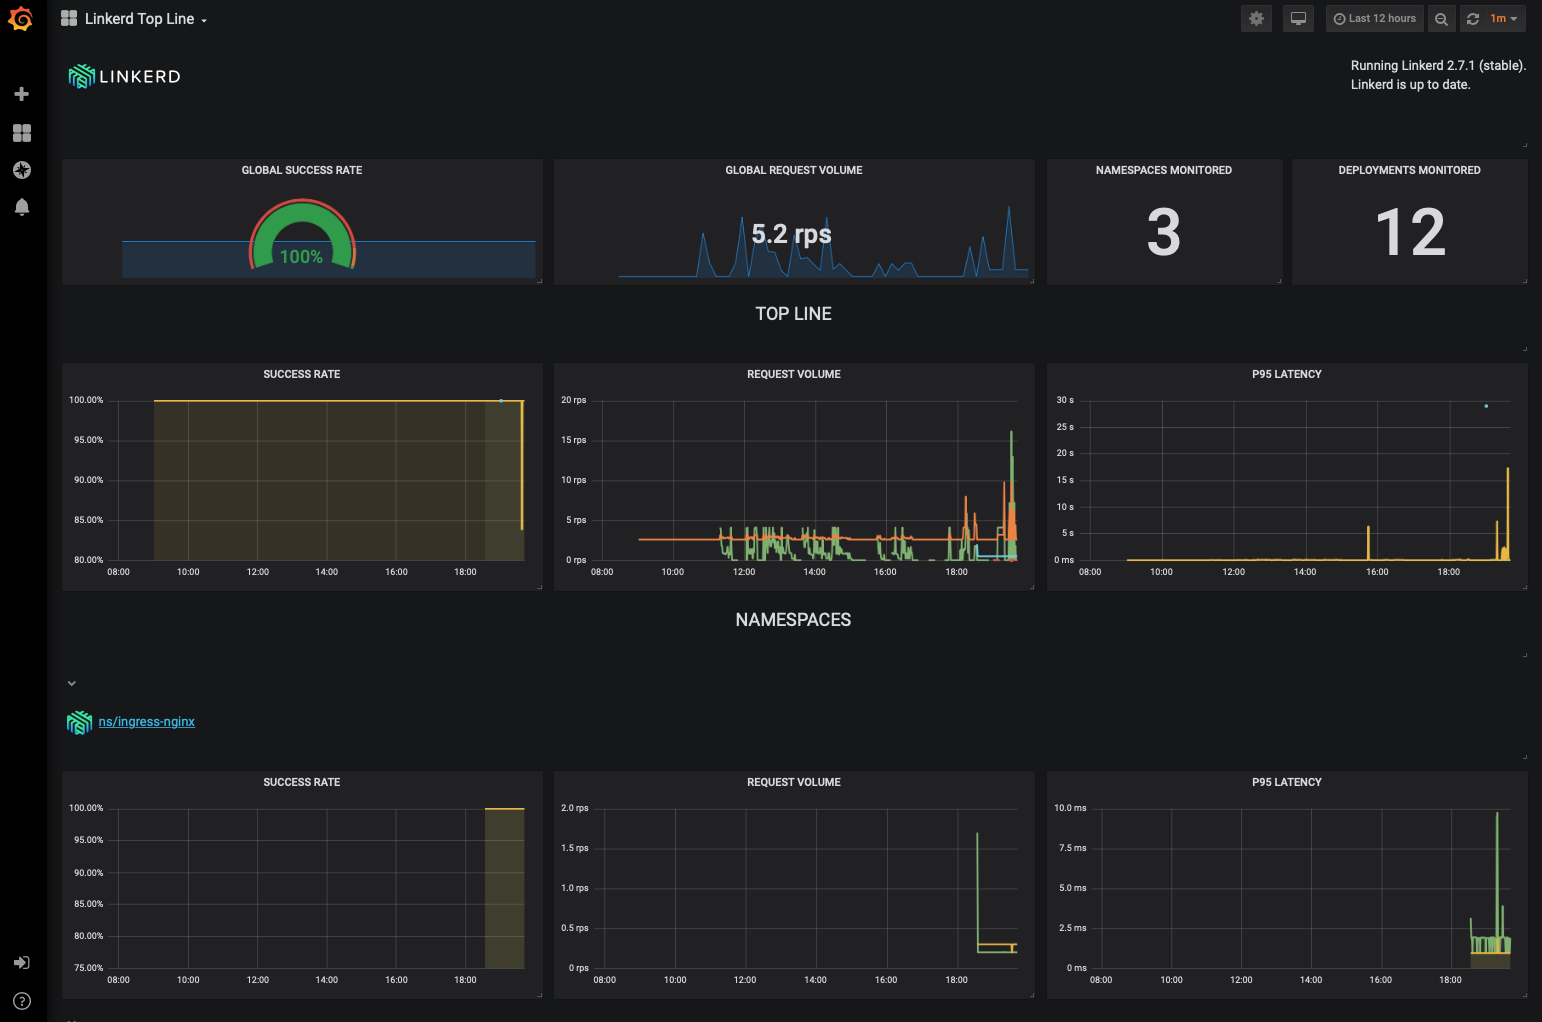
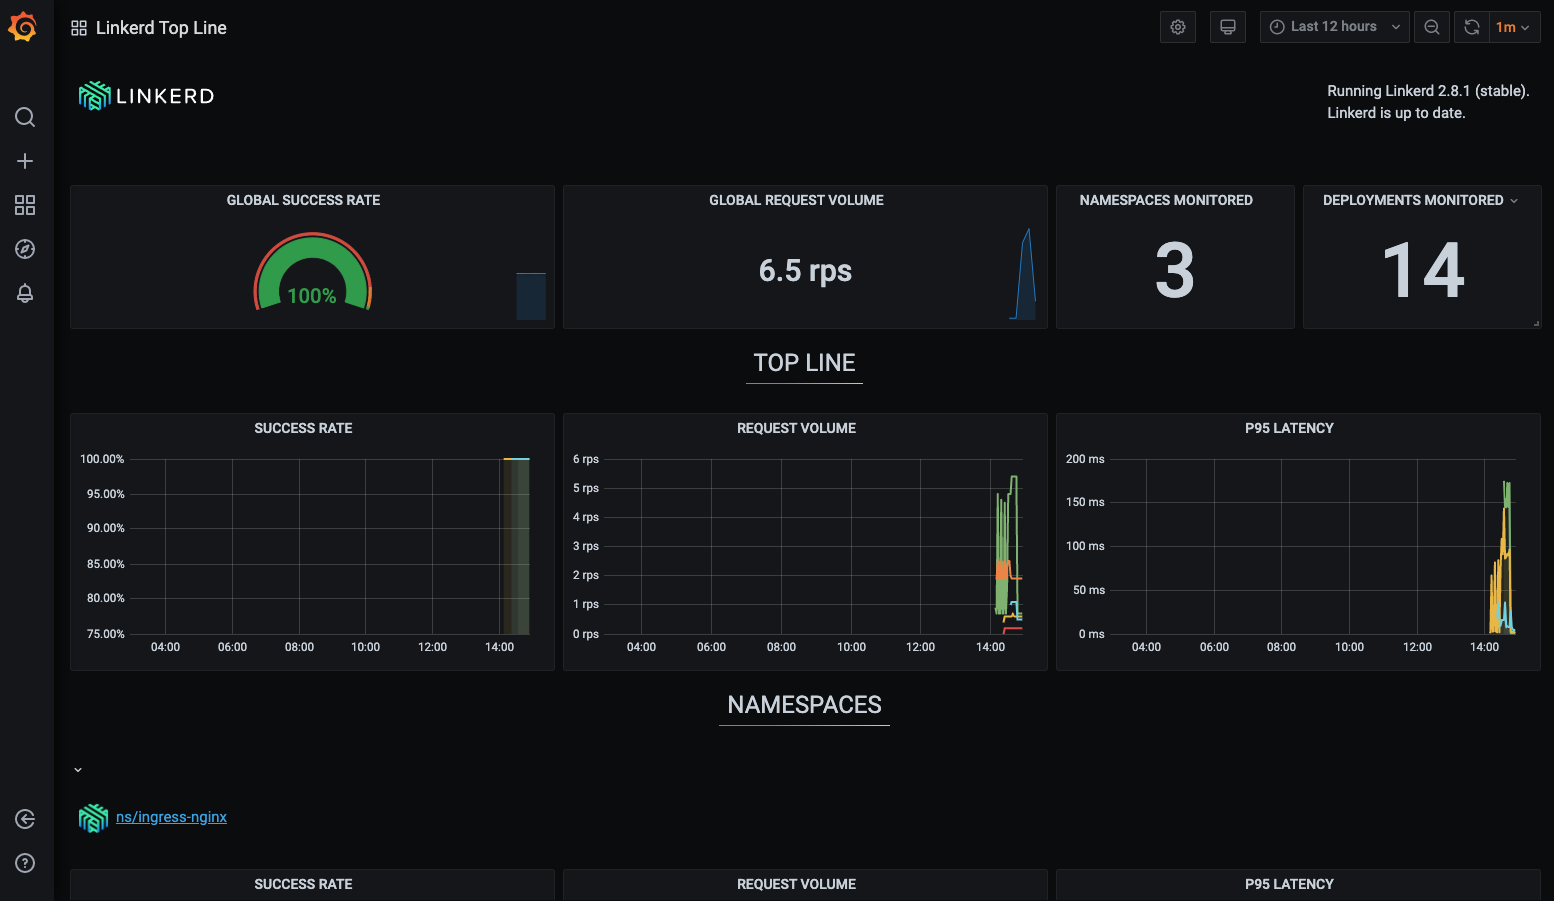
updated for the linkerd install and monitoring optional modueles

diff --git a/AppDev/helidon-k8s/Kubernetes/service-mesh/Linkerd-install.md b/AppDev/helidon-k8s/Kubernetes/service-mesh/Linkerd-install.md
@@ -25,8 +25,9 @@ This video is an introduction to the Service mesh basics lab. Once you've watche
 
 The concept behind a service mesh is pretty simple. It's basically a set of network proxies that are conceptually interposed between the containers running on a pod and the external network of the pod. This is achieved by the service mesh management capability (the control plane) which automatically adds proxies (the data plane) to the pods when the pods are started (if the pod is in a namespace that requests this via annotations)
 
-The following diagram (from [servicemesh.io](https://servicemesh.io)) whoes the components in the [linkerd](https://linkerd.io) service mesh, but other service mesh implementations have a similar structure. In this architecture, the proxies run as containers within the pod using the [sidecar pattern](https://dzone.com/articles/sidecar-design-pattern-in-your-microservices-ecosy-1)
-![](https://servicemesh.io/images/control-plane.png) 
+The following diagram (from [buoyant.io](https://buoyant.io)) whoes the components in the [linkerd](https://linkerd.io) service mesh, but other service mesh implementations have a similar structure. In this architecture, the proxies run as containers within the pod using the [sidecar pattern](https://dzone.com/articles/sidecar-design-pattern-in-your-microservices-ecosy-1)
+
+![](https://buoyant.io/images/manifesto/diag1.svg)
 
 The data plane consists of proxies which intercept the network operations of the pods and can apply rules to the data, for example restricting which services can be called by other services, encrypting data between proxies so cross microservice connections are transparently encrypted, splitting or mirroring traffic to help with update processes, and also gathering metrics on the number of calls (a link to [golden metrics](https://blog.appoptics.com/the-four-golden-signals-for-monitoring-distributed-systems/) would be good here), how often a cross microservice call failed and such like. Of course in a non Kubernetes environment you may have had your network switches or host operating systems do this, and many organizations had various levels of networking (separated by firewalls) for users, web applications, and databases, but in Kubernetes the boundary between the physical and logical compute resources is blurred, so using a service mesh allows you to have a simple implementation approach that applies regardless of if pods are running on the same node, different nodes in the same environment, or potentially even between data centers in opposite sides of the world.
 
@@ -483,6 +484,9 @@ Curiously the linkerd-web ingress does not by default use a TLS certificate to e
 
 Fortunately for us when we first setup our ingress controller and load balancer we installed a certificate in the load balancer for SSL / TLS connections, so we can just use that for the linkerd SSL/TLS endpoint as well. 
 
+- Move to the `$HOME/helidon-kubernetes/service-mesh` directory
+  - `cd $HOME/helidon-kubernetes/service-mesh`
+
 ### Create a login password to secure the connection
 
 The default configuration for the linkerd-web service includes a password of admin/admin. Obviously this is for demo purposes, but we should use something more secure (and of course you **must** use a strong password kubectl get namespace ingress-nginx -o yaml | linkerd inject - | kubectl replace -f -in a production environment !)
@@ -555,7 +559,7 @@ You will probably be challenged as you have a self signed certificate.
 We have had reports that some versions of Chrome will not allow you to override the page like this, for Chrome 83 at least one solution is to click in the browser window and type the words `thisisunsafe` (copy and past doesn't seem to work, you need to actually type it.) Alternatively use a different browser.
 
 
-Next you will be presented with the login challenge.
+Next you will be presented with the login challenge. The image below was captured using Safari, different browsers have slightly different looks, but the basic content is the same.
 
 ![](images/linkerd-web-login.png)
 
@@ -706,9 +710,9 @@ It doesn't look very different, and if you looked at the Grafana page that would
 
 Well the reason for this is to do with the way a service mesh works. 
 
-The following diagram (from [servicemesh.io](https://servicemesh.io)) shows the components in the [linkerd](https://linkerd.io) service mesh
+The following diagram (from [buoyant.io](https://buoyant.io)) shows the components in the [linkerd](https://linkerd.io) service mesh
 
-![](https://servicemesh.io/images/control-plane.png) 
+![](https://buoyant.io/images/manifesto/control-plane.png) 
 
 If you look at the data plane you can see what a pod looks like when the service mesh is enabled. In addition to the application containers in the pods you'll see there is also a container in the pod called `linkerd-proxy` This is a container that's automatically added to the pod for you when the pod is deployed. The proxy is what does the day to day activities of the service mesh as it intercepts the network traffic, does the metric counting, connection encryption and so on.
 
@@ -748,10 +752,13 @@ Restarting the pods triggered linkerd to do it's automatic update of the pod add
 
 - In the OCI Cloud shell type the following, if you have additional deployments add them to the list
   - ` kubectl get pods
+  
+```
 NAME                            READY   STATUS    RESTARTS   AGE
 stockmanager-654f44d59d-bjn2v   2/2     Running   0          7m55s
 storefront-8ddc6db75-nxlnm      2/2     Running   0          7m55s
 zipkin-84466dc99f-w5hhc         2/2     Running   0          7m55s
+```
 
 Note that pods have 2/2 in the READY column, this means that there are **two** containers running in the pod, previously would have seen 1/1 meaning only one container was running, (the application)
 
@@ -784,7 +791,7 @@ metadata:
     kubectl.kubernetes.io/restartedAt: "2020-05-21T17:27:41Z"
     linkerd.io/created-by: linkerd/proxy-injector stable-2.7.1
     linkerd.io/identity-mode: default
-    linkerd.io/proxy-version: stable-2.7.1
+    linkerd.io/proxy-version: stable-2.8.1
     prometheus.io/path: /metrics
     prometheus.io/port: "9081"
     prometheus.io/scrape: "true"

diff --git a/AppDev/helidon-k8s/Kubernetes/service-mesh/Linkerd-monitoring-traffic-flows.md b/AppDev/helidon-k8s/Kubernetes/service-mesh/Linkerd-monitoring-traffic-flows.md
@@ -136,7 +136,7 @@ Let's now look at the specific data for your namespace. In the HTTP metrics sect
 
 ![](images/linkerd-app-namespace-top-of-page.png)
 
-The most obvious thing we see here it the data routing network at the top of the page. This shows us which services are initiating connections to which other services. We've got an easy way to see our data flows between microservices (to be precise the ones that have the service mesh proxy installed !)
+The most obvious thing we see here it the data routing network at the top of the page. This shows us which services are initiating connections to which other services within the namespace. We've got an easy way to see our data flows between microservices (to be precise the ones that have the service mesh proxy installed !)
 
 You can see the expected `storefront` to `stockmanager` connection, but also that **both** of them are sending data to the `zipkin` service. This is actually the tracing data. I included zipkin in the deployments with the linkerd-proxy so help show more detail in the graph, but in a production environment you may not want want to do this. 
 
@@ -181,13 +181,15 @@ Let's look at what the pod is specifically doing, in the pods section click on t
 
 ![](images/linkerd-pod-stats.png)
 
+Note that you may also see information for linkerd pods such as the prometheus and tap service. Don't worry if you don't, but we will ignore them as they are basically the internal workings of the service mesh communicating with the proxy in the stockmanager pod to gather information. 
+
 Firstly we can see the other pods that are talking to this stock manager pod (the storefront) and the Kubernetes pods it's talking to (zipkin) The database not being a Kuberntes service isn't shown.
 
 Below that we can the specific details. There's a lot of data we can see about the message flows and volumes, even in a simple setup like this one.
 
 ### What network traffic is happening ?
 
-So far we've seen what's happening on the pods, but as the service mesh is a layer 7 proxy it knows what's happening within the requests. Note in late May 2020 as I was writing this module I found this section of the lab works best with Chrome, some features did work in Firefox. The live monitoring features did not work in Safari.
+So far we've seen what's happening on the pods, but as the service mesh is a layer 7 proxy it knows what's happening within the requests. Note in mid October 2020 as I was testing this module I found this section of the lab works best with Chrome, some features did work in Firefox. The live monitoring features did not work in Safari. Those browsers may have been updated since then of course.
 
 On the left hand menu in the tools section 
 
@@ -221,6 +223,8 @@ Note that the UI is displaying what the query would be if you ran the linkerd co
 ![](images/linkerd-top-running.png)
 
 We can now see that the storefront deployment has been receiving requests from the ingress controller on `/store/stocklevel` and making requests to the stockmanager on `/stocklevel` and occasionally connecting to Zipkin to report the tracing spans on `/api/v2/spans` More importantly we can see how many requests there have been and their timings, a useful tool for understanding what's actually happening within your collection of microservices. 
+
+You may also see requests to /status, /metrics and /health/live These are the Kubernetes framework checking to ensure that the pod is alive and ready, and Prometheus gathering performance metrics.
 
 - Click the `Tap` icon ![](images/linkerd-tap-icon.png) on the right of the `To stockmanager` row
 
@@ -336,9 +340,9 @@ You will get a long list of dashboards
 
 ![](images/grafana-dashboards-list.png)
 
-The ones that have recently been visited are listed first (I've been exploring a fair bit as I write this module, so there are many recent's in my list, your's may only contain the `Linkerd Deployments` dashboard.) Then the full list of available dashboards. The ones relating to Linkerd are indicated by their name, and also the `linkers` tag on the right side of the list.
+The ones that have recently been visited are listed first (I've been exploring a fair bit as I write this module, so there are many recent's in my list, yours may only contain the `Linkerd Deployments` dashboard.) Then the full list of available dashboards. The ones relating to Linkerd are indicated by their name, and also the `linkers` tag on the right side of the list.
 
-Feel free to explore the dashboards if you like.
+Feel free to explore the dashboards if you like, the Linkerd Health dashboard provides information on the operation of linkerd itself, whcih may be of interest to the linkerd developers.
 
 ## Stopping the load generator
 
